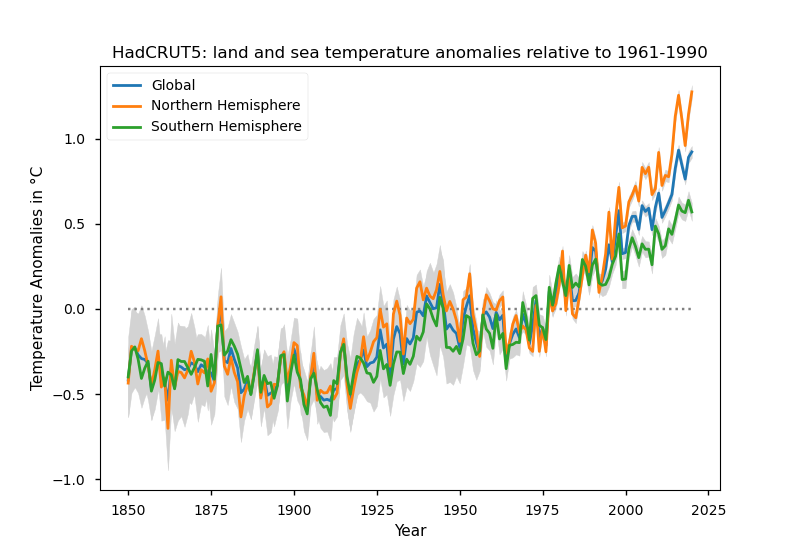
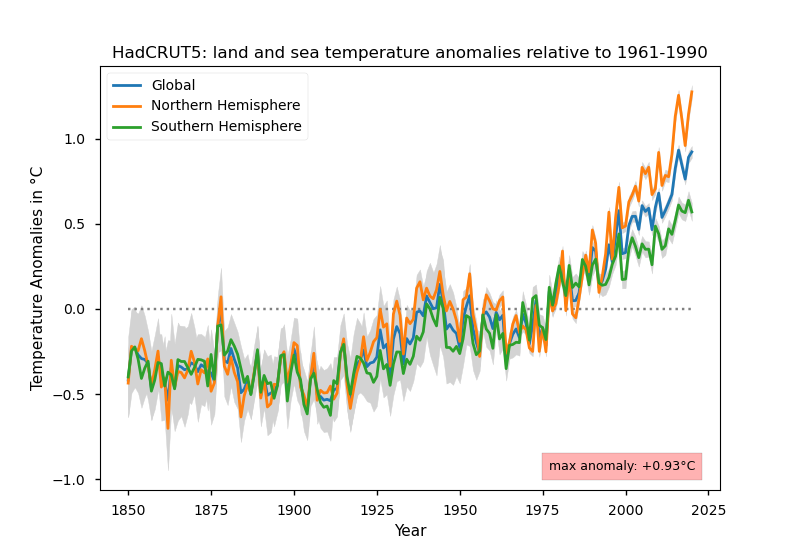
Add a bbox with the max anomaly temperature

Changed region(s): [[0.6562, 0.8036, 0.875, 0.8964]]

diff --git a/hadcrut5-plot.py b/hadcrut5-plot.py
@@ -113,7 +113,7 @@ def dataset_normalize(tas_mean, period, norm_temp=None):
     if period == "1961-1990":
         # No changes required:
         # the original dataset is based on the reference period 1961-1990
-        return (tas_mean, norm_temp)
+        return (tas_mean, 0)
 
     if not norm_temp:
         if period == "1850-1900":
@@ -132,6 +132,10 @@ def dataset_normalize(tas_mean, period, norm_temp=None):
     print("tas_mean relative to {}: {}".format(period, tas_mean_normalized))
     return tas_mean_normalized, norm_temp
 
+def dataset_anomaly(temperatures):
+    """Return the maximum anomaly with respect to 'base_temp'"""
+    return np.max([t for t in temperatures])
+
 def dataset_smoother(years, temperatures, chunksize):
     """Make the lines smoother by using {chunksize}-year means"""
     years = [y for y in years if not y % chunksize]
@@ -144,6 +148,7 @@ def dataset_smoother(years, temperatures, chunksize):
 
 def plot(datasets, outfile, period, chunksize):
     mpl.style.use("seaborn-notebook")
+    anomaly = None
 
     for item in datasets:
         tas_mean = datasets[item]["variables"]["tas_mean"][:]
@@ -154,6 +159,11 @@ def plot(datasets, outfile, period, chunksize):
         print("years: {}\ntemperatures: {}".format(years, tas_mean))
 
         mean, norm_temp = dataset_normalize(tas_mean, period)
+
+        if item == "Global":
+            anomaly = dataset_anomaly(mean)
+            print("Max anomaly for Global dataset: {}".format(anomaly))
+
         lower, _ = dataset_normalize(tas_lower, period, norm_temp)
         upper, _ = dataset_normalize(tas_upper, period, norm_temp)
 
@@ -175,6 +185,20 @@ def plot(datasets, outfile, period, chunksize):
     if chunksize > 1:
         ylabel += " ({}-year averages)".format(chunksize)
     plt.ylabel(ylabel)
+
+    if anomaly:
+        ax = plt.gca()
+        plt.annotate("max anomaly: {0:+.2f}°C".format(anomaly),
+                     xy=(0.96, 0.04),
+                     xycoords="axes fraction",
+                     fontsize=9,
+                     horizontalalignment="right",
+                     verticalalignment="bottom",
+                     bbox={
+                         "facecolor": "{}".format("blue" if anomaly <= 0 else "red"),
+                         "alpha": 0.3,
+                         "pad": 5
+                     })
 
     plt.legend()
 
